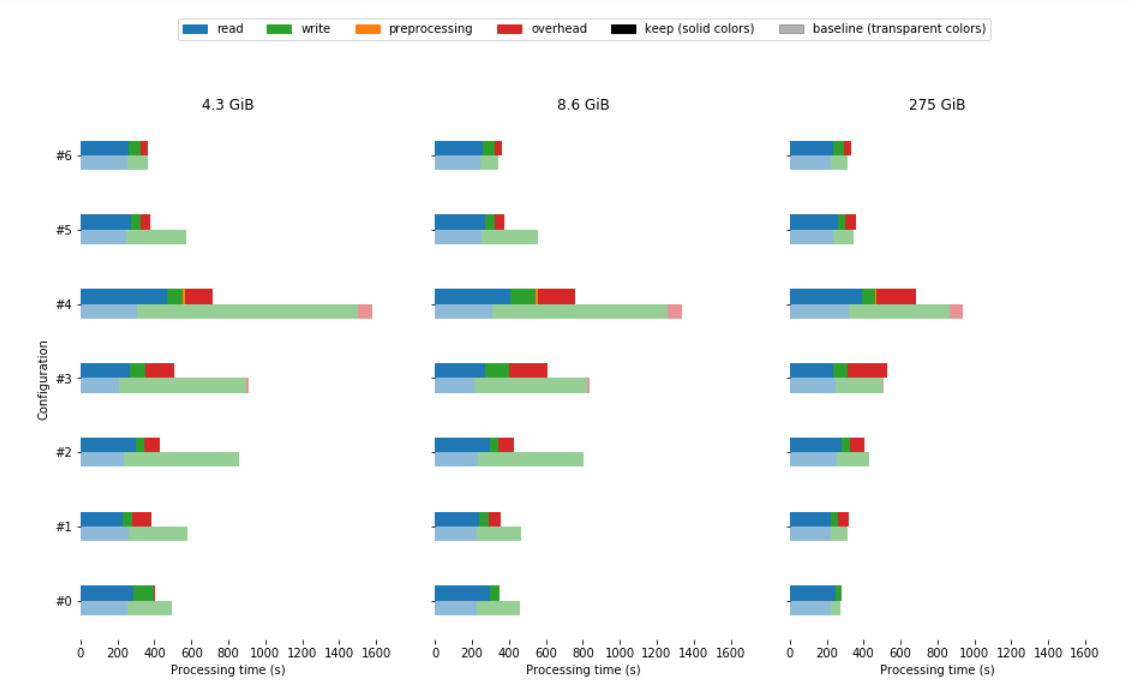
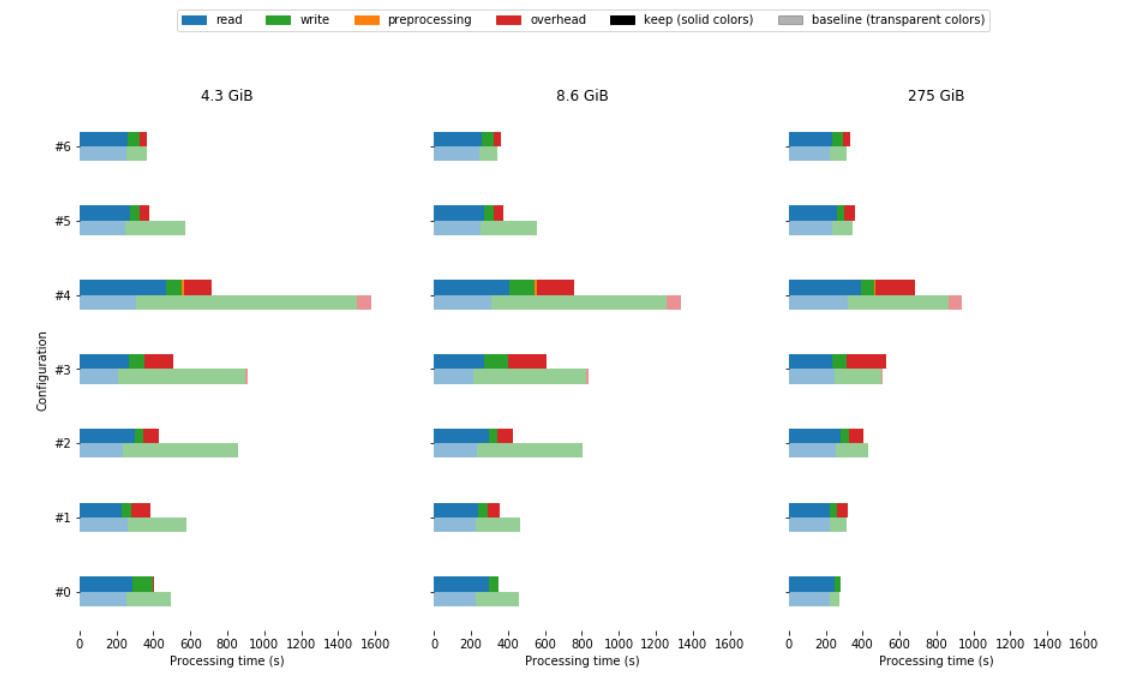
updated images

diff --git a/algorithm_paper_v1.tex b/algorithm_paper_v1.tex
@@ -848,14 +848,14 @@ the baseline.
 
 \begin{figure*}[h]
   \centering
-  \includegraphics[scale=0.36]{./figures/time_3500.png}
+  \includegraphics[scale=0.45]{./figures/time_3500.png}
   \caption{Results in terms of processing time for the keep and baseline algorithms. From left to right, the results are presented for 256, 8 and 4GB of available main memory.}
   \label{fig:time_3500}
 \end{figure*}
 
 \begin{figure*}[h]
     \centering
-    \includegraphics[scale=0.36]{./figures/seeks_3500.png}
+    \includegraphics[scale=0.45]{./figures/seeks_3500.png}
     \caption{Results in terms of seeks for the keep and baseline algorithms. From left to right, the results are presented for 256, 8 and 4GB of available main memory.}
     \label{fig:seeks_3500}
   \end{figure*}
